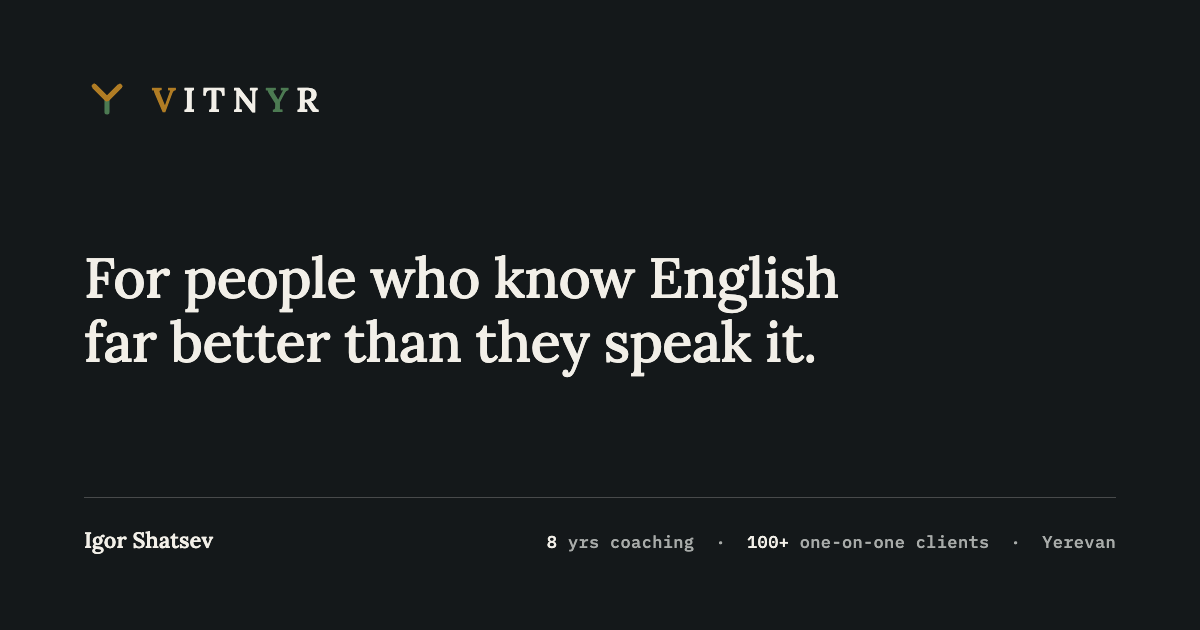
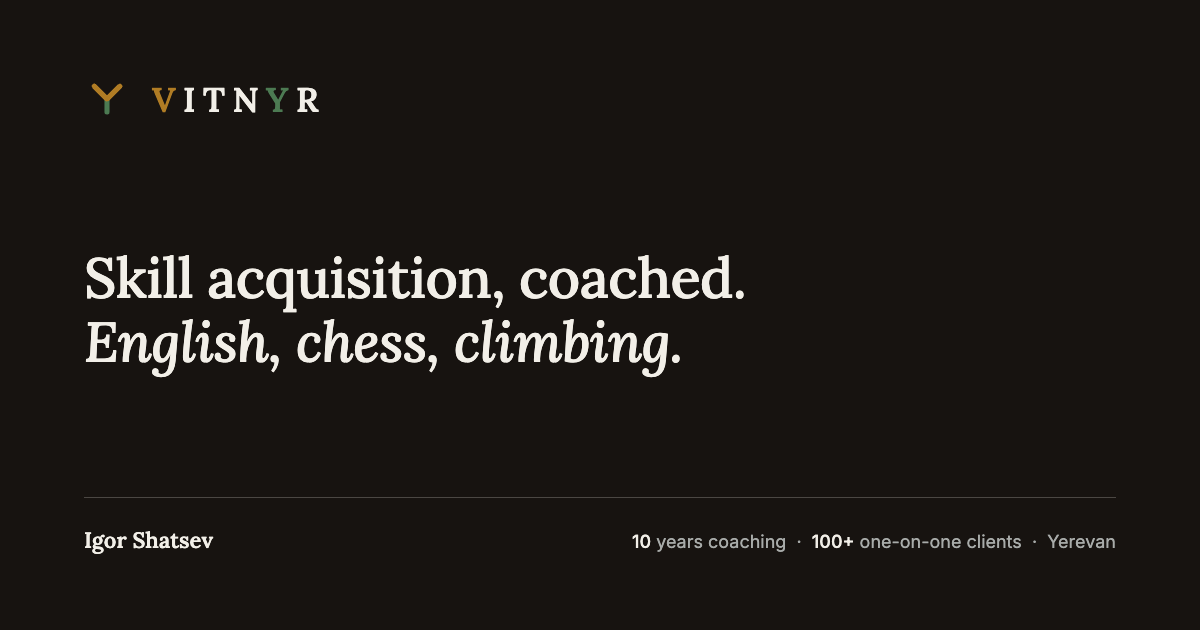
Fix share card, per-language head tags, record confirmed claims
- Share card regenerated: 10 years (was 8), warm charcoal #171310 (was the
  retired #14181A), the hero's own headline, Inter for the facts line.
  New Russian export og-share-ru.png from the same source (?lang=ru).
- No static canonical: theme.js applyHead() writes a self-referencing one
  per language (/ or /?lang=ru), sets html[lang] before paint, and swaps in
  the Russian title/description from data-head-ru twins. en hreflang is now
  "/", and the sitemap lists ?lang=ru as its own URL.
- meta/og descriptions drop a headline the page no longer uses.
- theme-color on charcoal now #171310.
- IELTS 9, 13 climbers to 7a, 5,000+ games and 30 students to 1800+
  confirmed by Igor; added to CLAUDE.md's confirmed facts, stale
  "unconfirmed" note in the §01 readout corrected.

Changed region(s): [[0.0617, 0.3921, 0.7092, 0.6032], [0.4317, 0.8444, 0.925, 0.8746]]

diff --git a/index.html b/index.html
@@ -3,12 +3,17 @@
 <head>
 <meta charset="utf-8">
 <meta name="viewport" content="width=device-width, initial-scale=1">
-<title>Igor Shatsev — Vitnyr</title>
-<meta name="description" content="Igor Shatsev, English coach in Yerevan, for people who know English far better than they speak it — 100+ one-on-one clients over 10 years. Also coaches chess (rated 2100) and climbing (7c/7C) as their own disciplines.">
+<title data-head-ru="Igor Shatsev — Vitnyr · коучинг английского, шахмат и скалолазания">Igor Shatsev — Vitnyr</title>
+<!-- 2026-09-23: title/description exist in both languages. Crawlers read
+     the static EN pair; theme.js swaps in the data-head-ru pair (and html[lang])
+     on a Russian load, so ?lang=ru renders with its own title and snippet. -->
+<meta name="description" content="Igor Shatsev, English coach in Yerevan — 10 years, 100+ one-on-one clients. Also coaches chess (rated 2100) and climbing (7c/7C) as their own disciplines. Online or in Yerevan." data-head-ru="Igor Shatsev — коуч по английскому в Ереване: 10 лет, больше ста учеников индивидуально. Также тренирует по шахматам (рейтинг 2100) и скалолазанию (7c/7C) как отдельным дисциплинам. Онлайн или в Ереване.">
 <meta name="theme-color" content="#EFEBE3">
 
 <meta property="og:title" content="Igor Shatsev — Vitnyr">
-<meta property="og:description" content="For people who know English far better than they speak it — 100+ one-on-one clients over 10 years in Yerevan. Chess and climbing coaching too, each on its own terms.">
+<meta property="og:description" content="English coach in Yerevan — 10 years, 100+ one-on-one clients. Chess and climbing coaching too, each on its own terms.">
+<meta property="og:locale" content="en_US">
+<meta property="og:locale:alternate" content="ru_RU">
 <meta property="og:type" content="website">
 <!--
   P1 (Stage 6, 2026-09-06): og:image now points at a real, exported share
@@ -29,11 +34,17 @@
 <meta name="twitter:card" content="summary_large_image">
 <meta name="twitter:image" content="https://vitnyr.example/assets/share/og-share.png">
 
-<link rel="canonical" href="https://vitnyr.example/">
 <!-- P3/P2 (Stage 6, 2026-09-06): hreflang alternates point at the ?lang=
      URLs theme.js already reads on load and now writes back via
-     history.replaceState on a language switch (see theme.js). -->
-<link rel="alternate" hreflang="en" href="https://vitnyr.example/?lang=en">
+     history.replaceState on a language switch (see theme.js).
+     2026-09-23: no static <link rel="canonical"> on purpose. A static one
+     said "/" for every URL, so it told Google ?lang=ru was a duplicate of
+     the English page and the Russian alternate got dropped. theme.js now
+     writes a self-referencing canonical per language (en -> "/", ru ->
+     "/?lang=ru"), built from the x-default href below so the domain swap
+     stays a find-and-replace in this file. The en alternate is "/" for the
+     same reason: hreflang must name the canonical URL, not a duplicate. -->
+<link rel="alternate" hreflang="en" href="https://vitnyr.example/">
 <link rel="alternate" hreflang="ru" href="https://vitnyr.example/?lang=ru">
 <link rel="alternate" hreflang="x-default" href="https://vitnyr.example/">
 
@@ -458,10 +469,11 @@ if (location.hash === '#collage') document.documentElement.classList.add('collag
            Stage 5 (2026-09-16): Igor supplied real chess coaching figures
            (3 years, 30 students to 1800+, named specimens below), so chess's
            rows are no longer placeholders. A same-day follow-up added
-           climbing's own coaching duration (2 years), so only climbing's
-           Achieved row (a student-outcome figure) remains unconfirmed —
-           Common mistakes is real for both, now that §03 has named
-           specimens for each.
+           climbing's own coaching duration (2 years). Common mistakes is
+           real for both, now that §03 has named specimens for each.
+           2026-09-23: Igor confirmed climbing's Achieved row (13 climbers
+           to 7a in a year) and English's IELTS 9 — every row here is now a
+           confirmed fact, listed in CLAUDE.md.
 
            Stage 6 (2026-09-17): dropped the original opening row (Measured:
            the 8yrs/100+, 2100, 7c/7C headline figures) — it only ever
@@ -505,6 +517,7 @@ if (location.hash === '#collage') document.documentElement.classList.add('collag
             <!-- Stage 5 (2026-09-16): real figure from Igor, replacing the
                  D0.6.4/5 placeholder. -->
             <span class="reading__value" data-discipline="chess" data-en="30 students to 1800+" data-ru="30 учеников довел до 1800+">30 students to 1800+</span>
+            <!-- Confirmed by Igor 2026-09-23 (CLAUDE.md confirmed facts). -->
             <span class="reading__value" data-discipline="climbing" data-en="13 climbers reached 7a in a year" data-ru="13 скалолазов достигли 7a за год">13 climbers reached 7a in a year</span>
           </span>
         </div>

diff --git a/assets/share/share-card.html b/assets/share/share-card.html
@@ -13,6 +13,14 @@
   this must never drift into its own palette. Regenerate by opening this
   file at a 1200×630 viewport and re-exporting, whenever the wordmark,
   the facts, or the charcoal-pair tokens change.
+
+  2026-09-23: re-exported. The old card still said 8 years (10 since
+  feature/ten-years-coaching), sat on the retired cool charcoal #14181A,
+  carried a headline no longer on the page, and set its facts in IBM Plex
+  Mono, which the site never loads. Now: the warm charcoal pair, the hero's
+  own headline, Inter for the facts line. One source, two languages:
+  open with ?lang=ru for og-share-ru.png (the name stays "Igor Shatsev" in
+  both, per CLAUDE.md).
 -->
 <html>
 <head>
@@ -20,12 +28,12 @@
 <title>Vitnyr share card source</title>
 <link rel="preconnect" href="https://fonts.googleapis.com">
 <link rel="preconnect" href="https://fonts.gstatic.com" crossorigin>
-<link rel="stylesheet" href="https://fonts.googleapis.com/css2?family=Lora:wght@500;600&family=IBM+Plex+Mono:wght@500&display=swap">
+<link rel="stylesheet" href="https://fonts.googleapis.com/css2?family=Inter:wght@400;500&family=Lora:ital,wght@0,500;0,600;1,500&display=swap">
 <style>
   * { margin: 0; padding: 0; box-sizing: border-box; }
   html, body {
     width: 1200px; height: 630px; overflow: hidden;
-    background: #14181A; /* --bg, charcoal pair */
+    background: #171310; /* --bg, charcoal pair */
   }
   .card {
     width: 1200px; height: 630px;
@@ -46,6 +54,9 @@
     max-width: 920px;
     text-wrap: balance;
   }
+  .headline em { font-style: italic; }
+  [data-l] { display: none; }
+  html[data-lang="en"] [data-l="en"], html[data-lang="ru"] [data-l="ru"] { display: revert; }
   .foot {
     display: flex; align-items: baseline; justify-content: space-between;
     border-top: 1px solid rgba(242,239,232,0.235); /* --rule, charcoal pair */
@@ -56,13 +67,14 @@
     color: #F2EFE8;
   }
   .foot .facts {
-    font-family: "IBM Plex Mono", ui-monospace, monospace; font-size: 17px;
-    letter-spacing: 0.02em; color: #A8ABA9; /* --fg2 */
+    font-family: Inter, system-ui, sans-serif; font-size: 18px;
+    color: #A8ABA9; /* --fg2 */
   }
   .foot .facts b { color: #F2EFE8; font-weight: 500; }
 </style>
 </head>
 <body>
+  <script>document.documentElement.setAttribute('data-lang', new URLSearchParams(location.search).get('lang') === 'ru' ? 'ru' : 'en');</script>
   <div class="card">
     <div class="lockup">
       <!-- identical d= to .lockup/.footmark in index.html — do not redraw -->
@@ -75,11 +87,14 @@
       </span>
     </div>
 
-    <p class="headline">For people who know English<br>far better than they speak it.</p>
+    <!-- the hero's own headline (index.html .hero__title), both languages -->
+    <p class="headline" data-l="en">Skill acquisition, coached.<br><em>English, chess, climbing.</em></p>
+    <p class="headline" data-l="ru">Коучинг по навыкам.<br><em>Английский, шахматы, скалолазание.</em></p>
 
     <div class="foot">
       <span class="who">Igor Shatsev</span>
-      <span class="facts"><b>8</b> yrs coaching &nbsp;·&nbsp; <b>100+</b> one-on-one clients &nbsp;·&nbsp; Yerevan</span>
+      <span class="facts" data-l="en"><b>10</b> years coaching &nbsp;·&nbsp; <b>100+</b> one-on-one clients &nbsp;·&nbsp; Yerevan</span>
+      <span class="facts" data-l="ru"><b>10</b> лет &nbsp;·&nbsp; <b>100+</b> учеников индивидуально &nbsp;·&nbsp; Ереван</span>
     </div>
   </div>
 </body>

diff --git a/theme.js b/theme.js
@@ -32,7 +32,7 @@
     if (chosen) document.documentElement.setAttribute('data-theme', chosen);
     else document.documentElement.removeAttribute('data-theme');
     var meta = document.querySelector('meta[name="theme-color"]');
-    if (meta) meta.setAttribute('content', effectiveTheme() === 'light' ? '#EFEBE3' : '#14181A');
+    if (meta) meta.setAttribute('content', effectiveTheme() === 'light' ? '#EFEBE3' : '#171310');   /* the warm charcoal --bg (style.css) */
     labelTheme();
   }
   function labelTheme() {
@@ -83,8 +83,31 @@
       sws[j].setAttribute('aria-label', (l === 'ru') ? 'Switch to English' : 'Переключить на русский');
     }
     labelTheme();
+    applyHead(l);
     // the hero lines differ per language, so their masks need re-measuring
     document.dispatchEvent(new CustomEvent('vitnyr:langchange', { detail: l }));
+  }
+
+  /* 2026-09-23: the <head> follows the language too. The static HTML carries
+     the English title/description with a data-ru twin (index.html), and no
+     canonical of its own: a static canonical of "/" contradicted the
+     ?lang=ru hreflang alternate and got the Russian URL dropped. So the
+     canonical is written here, self-referencing per language, off the
+     x-default alternate's href (the one place the domain lives). */
+  var headEn = null;   /* the static English title/description. Their Russian
+                          twins are data-head-ru, not data-ru, so applyLang's
+                          [data-en][data-ru] textContent loop never touches them */
+  function applyHead(l) {
+    var t = document.querySelector('title[data-head-ru]');
+    var d = document.querySelector('meta[name="description"][data-head-ru]');
+    if (!headEn) headEn = { t: t && t.textContent, d: d && d.getAttribute('content') };
+    if (t) document.title = l === 'ru' ? t.dataset.headRu : headEn.t;
+    if (d) d.setAttribute('content', l === 'ru' ? d.dataset.headRu : headEn.d);
+    var base = document.querySelector('link[rel="alternate"][hreflang="x-default"]');
+    if (!base) return;
+    var c = document.querySelector('link[rel="canonical"]');
+    if (!c) { c = document.createElement('link'); c.rel = 'canonical'; document.head.appendChild(c); }
+    c.href = base.getAttribute('href') + (l === 'ru' ? '?lang=ru' : '');
   }
 
   /* P2 (Stage 6, 2026-09-06): language lived only in localStorage — the URL
@@ -105,6 +128,8 @@
   }
 
   document.documentElement.setAttribute('data-lang', lang);
+  document.documentElement.setAttribute('lang', lang);
+  applyHead(lang);   /* the head tags sit above this script, so they exist already */
   applyTheme();
 
   /* The wordmark is live SVG text positioned at Lora's own advances, so it must

diff --git a/tests/test_content.py b/tests/test_content.py
@@ -195,17 +195,39 @@ def test_og_url_and_image_use_the_placeholder_domain(open_site):
 
 
 def test_canonical_and_hreflang_share_the_same_placeholder_domain(open_site):
-    page, _ = open_site()
+    page, _ = open_site(lang="en")
+    assert page.locator('link[rel="canonical"]').count() == 1
     assert page.locator('link[rel="canonical"]').get_attribute("href") == "https://vitnyr.example/"
     alternates = {
         el.get_attribute("hreflang"): el.get_attribute("href")
         for el in page.locator('link[rel="alternate"][hreflang]').all()
     }
     assert alternates == {
-        "en": "https://vitnyr.example/?lang=en",
+        "en": "https://vitnyr.example/",
         "ru": "https://vitnyr.example/?lang=ru",
         "x-default": "https://vitnyr.example/",
     }
+
+
+def test_russian_url_is_its_own_canonical_with_russian_head(open_site):
+    """2026-09-23: a static canonical of "/" told Google ?lang=ru was a
+    duplicate, contradicting its own hreflang. The Russian load now carries
+    a self-referencing canonical, html[lang=ru], and the Russian title and
+    description; switching back restores the English set."""
+    page, _ = open_site(query="?lang=ru")
+    assert page.locator('link[rel="canonical"]').count() == 1
+    assert page.locator('link[rel="canonical"]').get_attribute("href") == "https://vitnyr.example/?lang=ru"
+    assert page.locator("html").get_attribute("lang") == "ru"
+    assert "коучинг" in page.title()
+    assert "Igor Shatsev" in page.title()
+    desc = page.locator('meta[name="description"]').get_attribute("content")
+    assert "коуч" in desc and "Igor Shatsev" in desc
+    assert page.locator('meta[name="description"]').evaluate("el => el.textContent") == ""
+    page.locator(".masthead .langswitch").click()
+    page.wait_for_function("document.documentElement.lang === 'en'")
+    assert page.title() == "Igor Shatsev — Vitnyr"
+    assert page.locator('link[rel="canonical"]').get_attribute("href") == "https://vitnyr.example/"
+    assert "коуч" not in page.locator('meta[name="description"]').get_attribute("content")
 
 
 def test_share_card_asset_is_actually_served(open_site, site_url):
@@ -217,6 +239,8 @@ def test_share_card_asset_is_actually_served(open_site, site_url):
     resp = page.request.get(f"{site_url}/assets/share/og-share.png")
     assert resp.ok
     assert resp.headers.get("content-type", "").startswith("image/")
+    ru = page.request.get(f"{site_url}/assets/share/og-share-ru.png")
+    assert ru.ok
 
 
 def test_person_json_ld_carries_only_confirmed_facts(open_site):

diff --git a/tests/test_theme.py b/tests/test_theme.py
@@ -6,7 +6,7 @@ import pytest
 from conftest import rule_contrast
 
 CREAM = "#EFEBE3"
-CHARCOAL = "#14181A"
+CHARCOAL = "#171310"
 
 
 def meta_theme_color(page):

diff --git a/BUILD-NOTES.md b/BUILD-NOTES.md
@@ -5130,3 +5130,45 @@ with real pointer frames, not a single screenshot: the strokes lean and
 settle in both themes, the mark rests as the locked logo, 84px wide and
 centred at 375px with no horizontal overflow, no listeners on a coarse
 pointer, no console errors.
+
+## Trust and SEO fixes: share card, per-language head, confirmed claims (2026-09-23)
+
+From an audit's "fix first" list. Three of its five items landed here; the
+other two are Igor's (the domain) or deferred by him (the English collage
+stand-ins, Q9).
+
+**Share card.** `og-share.png` still said "8 yrs coaching", sat on the
+retired cool charcoal `#14181A`, used a headline no longer on the page and a
+mono face the site never loads. `share-card.html` now uses the warm charcoal
+pair, the hero's own headline and Inter for the facts line, and renders in
+both languages (`?lang=ru`) — exported at 1200×630, DPR 1, via Playwright,
+as `og-share.png` and `og-share-ru.png`. Only the English file is wired into
+`og:image`: crawlers don't run JS, so a Russian preview for `?lang=ru` needs
+the real host (an edge rewrite) once a domain exists.
+
+**Canonical vs hreflang.** The static `<link rel="canonical" href="/">` told
+Google `?lang=ru` was a duplicate of `/` while hreflang named it the Russian
+version, so the Russian URL would be dropped; the Russian load also kept
+`lang="en"` and the English title/description until DOMContentLoaded (lang)
+or forever (title/description). Now: no static canonical; `theme.js`'s
+`applyHead()` runs before first paint and again on every switch, writing a
+self-referencing canonical off the x-default href (`/` or `/?lang=ru`),
+`html[lang]`, and the Russian title/description from `data-head-ru` twins —
+deliberately not `data-ru`, which would put them in `applyLang()`'s
+textContent loop and fail `test_i18n`'s both-languages rule. The en
+alternate is now `/` (the canonical, not the `?lang=en` duplicate);
+`sitemap.xml` lists `?lang=ru` as its own `<url>`. The meta and og
+descriptions also lost "for people who know English far better than they
+speak it", which the page no longer says.
+
+**theme-color.** Also still `#14181A` on charcoal; now `#171310`, the
+current `--bg`.
+
+**Claims.** Igor confirmed IELTS 9, "13 climbers reached 7a in a year",
+5,000+ analysed games and 30 students to 1800+. Added to CLAUDE.md's
+confirmed facts; the §01 readout comment that still called climbing's
+Achieved row unconfirmed is corrected.
+
+**New tests**: `test_russian_url_is_its_own_canonical_with_russian_head`;
+the canonical/hreflang test now expects the en alternate at `/`; the
+share-card test also fetches `og-share-ru.png`.

diff --git a/CLAUDE.md b/CLAUDE.md
@@ -234,8 +234,17 @@ misalign in a fallback face.
 
 Search for `PLACEHOLDER`, `fill in`, and `.ch__todo`. The Telegram, LinkedIn
 and Instagram handles are live in `index.html`; `og:url`, `og:image`, the
-canonical/hreflang links, `sitemap.xml` and `robots.txt` still point at the
-placeholder `https://vitnyr.example/` until the real domain exists. `BUILD-NOTES.md` lists these plus
+hreflang links, `sitemap.xml` and `robots.txt` still point at the
+placeholder `https://vitnyr.example/` until the real domain exists. There is
+deliberately **no static canonical** — `theme.js`'s `applyHead()` writes a
+self-referencing one per language (`/` or `/?lang=ru`) off the x-default
+alternate, plus the Russian `<title>`/description from their `data-head-ru`
+twins; a static `/` canonical contradicted the `?lang=ru` alternate
+(2026-09-23). The share card has two exports, `og-share.png` and
+`og-share-ru.png` (`assets/share/share-card.html`, `?lang=ru` for the second);
+only the English one is wired into `og:image`, because a crawler never runs
+`theme.js` — serving the Russian card to `?lang=ru` needs the real host
+(e.g. an edge rewrite) once the domain exists. `BUILD-NOTES.md` lists these plus
 what's been visually verified vs. only checked by measuring the DOM.
 
 ## Content and positioning decisions (already made — don't re-litigate)
@@ -252,7 +261,12 @@ the brand file, so nothing in the code will tell a new chat about them:
   100+ one-on-one clients, a **2100 chess rating stated without FIDE**
   (Igor's own correction — don't add "FIDE" back in), **7c redpoint indoor**
   and a **7C Kilter boulder** (climbing grades, not to be merged into one
-  generic "7c"). Nothing beyond these should be asserted about outcomes.
+  generic "7c"). Coaching-outcome figures Igor has since confirmed
+  (2026-09-16 and 2026-09-23), worded as the page has them: **C2 level ·
+  IELTS 9** (Igor's own English), **3 years / 30 students to 1800+**
+  (chess coaching), **2 years / 13 climbers reached 7a in a year**
+  (climbing coaching), and **5,000+ analysed games** (the chess pattern
+  bank). Nothing beyond these should be asserted about outcomes.
 - **"Igor Shatsev" everywhere, including in Russian.** Igor was explicit:
   *"I need to be Igor Shatsev everywhere on the website."* Don't swap in
   "Vitnyr" or a transliteration as the personal name in either language —
